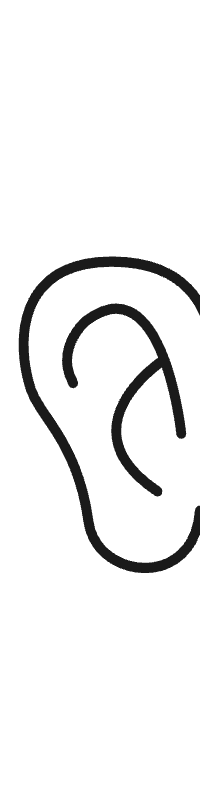
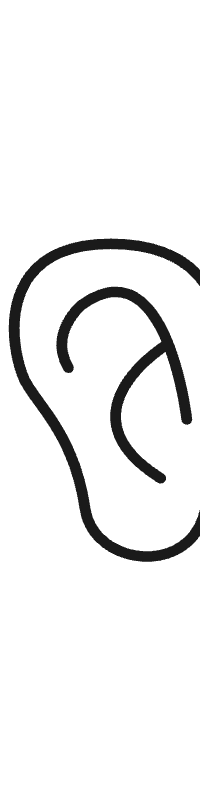
minor fix

diff --git a/README.md b/README.md
@@ -1,12 +1,12 @@
 # stick_figure_creator
 Extract faces from images of individuals and overlay a stick figure body onto them.
 
-
 ### Stick figure info
 - Stick figures were created using autodraw.com.
 - Image size: 947 x 1262 pixels
 - Image DPI: 72 pixels/inch
 - Document type: PNG image
+- hair, ear images were cropped using iloveimg.com
 
 ### Image extraction info
 - dlib was used for face detection.
